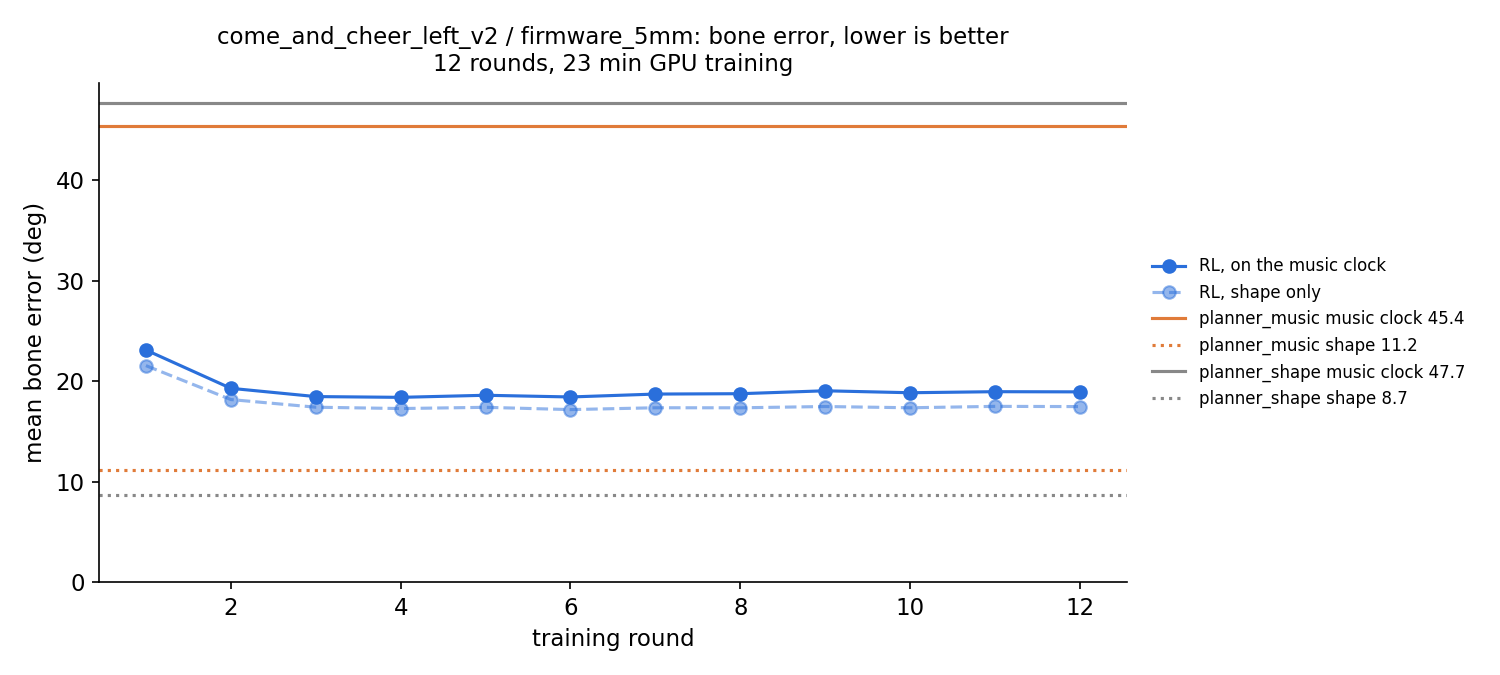
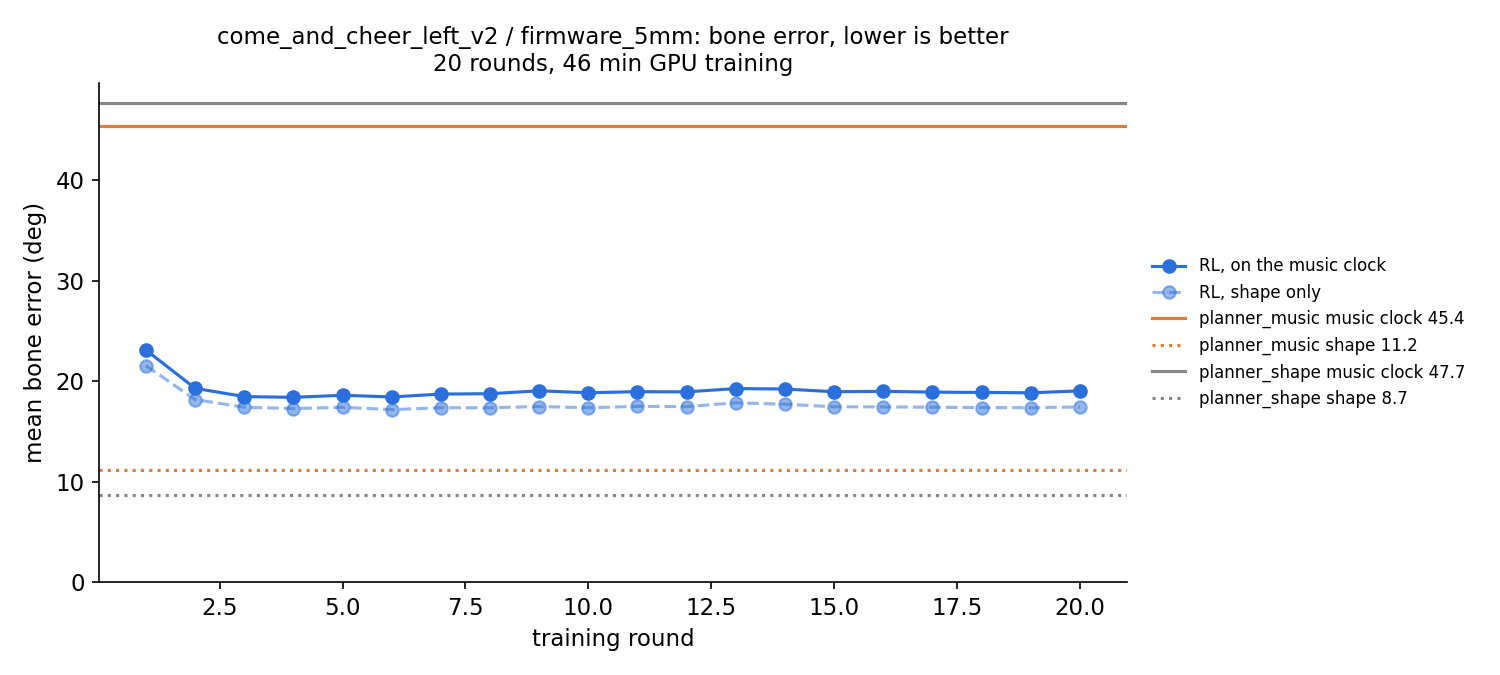
A50-1 RL vs planner full run: results, timings, curves for all 12 sets

diff --git a/docs/experiments/rl_compare_results.md b/docs/experiments/rl_compare_results.md
@@ -1,0 +1,223 @@
+# RL vs planner
+
+## come_and_cheer_center_v2 · Board cap 60 deg/s, 10 mm gap (เพลง 158 วินาที)
+
+| ตัววัด | planner_shape | planner_music | rl |
+|---|---|---|---|
+| ผิดจากท่าคน ตามเวลาเพลงจริง (°) | 51.3 | 50.1 | **19.0** |
+| ผิดจากรูปท่า ไม่นับเวลา (°) | **8.6** | 12.3 | 17.1 |
+| เอวผิด (°) | 53.5 | 53.0 | **4.9** |
+| ไหล่ยักผิด (°) | 4.2 | 4.8 | **2.0** |
+| ช้ากว่าเพลง มัธยฐาน (วินาที) | 128.8 | 107.1 | **0.1** |
+| ความยาวท่า ÷ ความยาวเพลง | 4.03 | 2.95 | **1.00** |
+| ความกระตุก jerk RMS (°/s³) | **676** | 734 | 3412 |
+| ความเร็วสูงสุดของข้อ (°/s) | 60 | 60 | 60 |
+| เวลาที่ใกล้ชนเกินระยะเผื่อ ตัวตรวจ Studio (วินาที) | **0.0** | **0.0** | **0.0** |
+| เฟรมใกล้ชน (ตัววัดประมาณ) | 13 | **0** | **0** |
+| ระยะห่างน้อยสุด ประมาณ (mm) | 8.9 | **24.0** | 17.7 |
+| เวลาที่ข้อชนลิมิต (%) | 87.5 | 83.8 | **48.0** |
+| เวลาคำนวณ/เทรน (วินาที) | 15 | **12** | 3578 |
+
+## come_and_cheer_center_v2 · Board cap 60 deg/s, 5 mm gap (เพลง 158 วินาที)
+
+| ตัววัด | planner_shape | planner_music | rl |
+|---|---|---|---|
+| ผิดจากท่าคน ตามเวลาเพลงจริง (°) | 51.3 | 50.1 | **18.9** |
+| ผิดจากรูปท่า ไม่นับเวลา (°) | **8.6** | 12.3 | 16.8 |
+| เอวผิด (°) | 53.5 | 53.0 | **5.3** |
+| ไหล่ยักผิด (°) | 4.2 | 4.8 | **2.0** |
+| ช้ากว่าเพลง มัธยฐาน (วินาที) | 128.8 | 107.1 | **0.0** |
+| ความยาวท่า ÷ ความยาวเพลง | 4.04 | 2.95 | **1.00** |
+| ความกระตุก jerk RMS (°/s³) | **673** | 734 | 3507 |
+| ความเร็วสูงสุดของข้อ (°/s) | 60 | 60 | 60 |
+| เวลาที่ใกล้ชนเกินระยะเผื่อ ตัวตรวจ Studio (วินาที) | **0.0** | **0.0** | **0.0** |
+| เฟรมใกล้ชน (ตัววัดประมาณ) | **0** | **0** | **0** |
+| ระยะห่างน้อยสุด ประมาณ (mm) | 8.9 | **24.0** | 16.1 |
+| เวลาที่ข้อชนลิมิต (%) | 87.3 | 83.8 | **38.5** |
+| เวลาคำนวณ/เทรน (วินาที) | 17 | **12** | 2779 |
+
+## come_and_cheer_center_v2 · Servo limits only (cap raised), 5 mm gap (เพลง 158 วินาที)
+
+| ตัววัด | planner_shape | planner_music | rl |
+|---|---|---|---|
+| ผิดจากท่าคน ตามเวลาเพลงจริง (°) | 44.0 | 42.2 | **12.8** |
+| ผิดจากรูปท่า ไม่นับเวลา (°) | **9.3** | 13.0 | 11.1 |
+| เอวผิด (°) | 16.3 | 8.4 | **3.4** |
+| ไหล่ยักผิด (°) | 3.8 | 3.5 | **1.8** |
+| ช้ากว่าเพลง มัธยฐาน (วินาที) | 6.4 | 3.1 | **0.0** |
+| ความยาวท่า ÷ ความยาวเพลง | 1.21 | 1.06 | **1.00** |
+| ความกระตุก jerk RMS (°/s³) | **15125** | 16835 | 17437 |
+| ความเร็วสูงสุดของข้อ (°/s) | 388 | 366 | 400 |
+| เวลาที่ใกล้ชนเกินระยะเผื่อ ตัวตรวจ Studio (วินาที) | 0.0 | **0.0** | **0.0** |
+| เฟรมใกล้ชน (ตัววัดประมาณ) | **0** | **0** | **0** |
+| ระยะห่างน้อยสุด ประมาณ (mm) | 6.0 | **24.2** | 13.0 |
+| เวลาที่ข้อชนลิมิต (%) | 87.1 | 83.6 | **45.2** |
+| เวลาคำนวณ/เทรน (วินาที) | 18 | **13** | 3321 |
+
+## come_and_cheer_left_v2 · Board cap 60 deg/s, 10 mm gap (เพลง 158 วินาที)
+
+| ตัววัด | planner_shape | planner_music | rl |
+|---|---|---|---|
+| ผิดจากท่าคน ตามเวลาเพลงจริง (°) | 47.7 | 45.4 | **18.8** |
+| ผิดจากรูปท่า ไม่นับเวลา (°) | **8.7** | 11.2 | 17.3 |
+| เอวผิด (°) | 12.9 | 11.6 | **2.1** |
+| ไหล่ยักผิด (°) | 4.5 | 4.4 | **1.7** |
+| ช้ากว่าเพลง มัธยฐาน (วินาที) | 137.8 | 97.3 | **0.0** |
+| ความยาวท่า ÷ ความยาวเพลง | 4.09 | 3.00 | **1.00** |
+| ความกระตุก jerk RMS (°/s³) | **686** | 748 | 3566 |
+| ความเร็วสูงสุดของข้อ (°/s) | 60 | 60 | 60 |
+| เวลาที่ใกล้ชนเกินระยะเผื่อ ตัวตรวจ Studio (วินาที) | 0.0 | **0.0** | **0.0** |
+| เฟรมใกล้ชน (ตัววัดประมาณ) | 166 | **0** | **0** |
+| ระยะห่างน้อยสุด ประมาณ (mm) | 8.3 | **18.6** | 15.8 |
+| เวลาที่ข้อชนลิมิต (%) | 92.0 | 93.9 | **29.2** |
+| เวลาคำนวณ/เทรน (วินาที) | 17 | **13** | 2871 |
+
+## come_and_cheer_left_v2 · Board cap 60 deg/s, 5 mm gap (เพลง 158 วินาที)
+
+| ตัววัด | planner_shape | planner_music | rl |
+|---|---|---|---|
+| ผิดจากท่าคน ตามเวลาเพลงจริง (°) | 47.7 | 45.4 | **19.0** |
+| ผิดจากรูปท่า ไม่นับเวลา (°) | **8.7** | 11.2 | 17.4 |
+| เอวผิด (°) | 12.9 | 11.6 | **2.3** |
+| ไหล่ยักผิด (°) | 4.5 | 4.4 | **1.5** |
+| ช้ากว่าเพลง มัธยฐาน (วินาที) | 137.8 | 97.3 | **0.0** |
+| ความยาวท่า ÷ ความยาวเพลง | 4.08 | 3.00 | **1.00** |
+| ความกระตุก jerk RMS (°/s³) | **689** | 748 | 3715 |
+| ความเร็วสูงสุดของข้อ (°/s) | 60 | 60 | 60 |
+| เวลาที่ใกล้ชนเกินระยะเผื่อ ตัวตรวจ Studio (วินาที) | 0.0 | **0.0** | **0.0** |
+| เฟรมใกล้ชน (ตัววัดประมาณ) | **0** | **0** | **0** |
+| ระยะห่างน้อยสุด ประมาณ (mm) | 8.3 | **18.6** | 18.2 |
+| เวลาที่ข้อชนลิมิต (%) | 92.2 | 93.9 | **25.2** |
+| เวลาคำนวณ/เทรน (วินาที) | 13 | **10** | 2744 |
+
+## come_and_cheer_left_v2 · Servo limits only (cap raised), 5 mm gap (เพลง 158 วินาที)
+
+| ตัววัด | planner_shape | planner_music | rl |
+|---|---|---|---|
+| ผิดจากท่าคน ตามเวลาเพลงจริง (°) | 42.3 | 40.3 | **11.8** |
+| ผิดจากรูปท่า ไม่นับเวลา (°) | **9.5** | 11.9 | 10.8 |
+| เอวผิด (°) | 3.1 | 1.9 | **1.7** |
+| ไหล่ยักผิด (°) | 3.9 | 3.6 | **1.6** |
+| ช้ากว่าเพลง มัธยฐาน (วินาที) | 6.8 | 2.9 | **0.0** |
+| ความยาวท่า ÷ ความยาวเพลง | 1.20 | 1.07 | **1.00** |
+| ความกระตุก jerk RMS (°/s³) | **16366** | 17166 | 17898 |
+| ความเร็วสูงสุดของข้อ (°/s) | 388 | 369 | 400 |
+| เวลาที่ใกล้ชนเกินระยะเผื่อ ตัวตรวจ Studio (วินาที) | 0.0 | **0.0** | 0.1 |
+| เฟรมใกล้ชน (ตัววัดประมาณ) | **0** | **0** | **0** |
+| ระยะห่างน้อยสุด ประมาณ (mm) | 8.3 | **18.6** | 5.3 |
+| เวลาที่ข้อชนลิมิต (%) | 88.8 | 89.3 | **41.0** |
+| เวลาคำนวณ/เทรน (วินาที) | 18 | **13** | 2915 |
+
+## witsawa_kriangkrai_center_v2 · Board cap 60 deg/s, 10 mm gap (เพลง 85 วินาที)
+
+| ตัววัด | planner_shape | planner_music | rl |
+|---|---|---|---|
+| ผิดจากท่าคน ตามเวลาเพลงจริง (°) | 51.3 | 51.1 | **19.5** |
+| ผิดจากรูปท่า ไม่นับเวลา (°) | **11.2** | 12.7 | 18.3 |
+| เอวผิด (°) | 16.1 | 13.3 | **2.4** |
+| ไหล่ยักผิด (°) | 5.2 | 5.9 | **1.7** |
+| ช้ากว่าเพลง มัธยฐาน (วินาที) | 121.3 | 91.7 | **0.0** |
+| ความยาวท่า ÷ ความยาวเพลง | 3.95 | 3.20 | **1.00** |
+| ความกระตุก jerk RMS (°/s³) | **658** | 754 | 3644 |
+| ความเร็วสูงสุดของข้อ (°/s) | 60 | 60 | 60 |
+| เวลาที่ใกล้ชนเกินระยะเผื่อ ตัวตรวจ Studio (วินาที) | **0.0** | **0.0** | **0.0** |
+| เฟรมใกล้ชน (ตัววัดประมาณ) | **0** | **0** | **0** |
+| ระยะห่างน้อยสุด ประมาณ (mm) | 13.0 | 21.1 | **22.5** |
+| เวลาที่ข้อชนลิมิต (%) | 91.0 | 90.1 | **27.8** |
+| เวลาคำนวณ/เทรน (วินาที) | 8 | **7** | 8763 |
+
+## witsawa_kriangkrai_center_v2 · Board cap 60 deg/s, 5 mm gap (เพลง 85 วินาที)
+
+| ตัววัด | planner_shape | planner_music | rl |
+|---|---|---|---|
+| ผิดจากท่าคน ตามเวลาเพลงจริง (°) | 51.3 | 51.1 | **18.9** |
+| ผิดจากรูปท่า ไม่นับเวลา (°) | **11.2** | 12.7 | 18.0 |
+| เอวผิด (°) | 16.1 | 13.3 | **2.4** |
+| ไหล่ยักผิด (°) | 5.2 | 5.9 | **1.6** |
+| ช้ากว่าเพลง มัธยฐาน (วินาที) | 121.3 | 91.7 | **0.0** |
+| ความยาวท่า ÷ ความยาวเพลง | 3.95 | 3.20 | **1.00** |
+| ความกระตุก jerk RMS (°/s³) | **658** | 754 | 3592 |
+| ความเร็วสูงสุดของข้อ (°/s) | 60 | 60 | 60 |
+| เวลาที่ใกล้ชนเกินระยะเผื่อ ตัวตรวจ Studio (วินาที) | **0.0** | **0.0** | **0.0** |
+| เฟรมใกล้ชน (ตัววัดประมาณ) | **0** | **0** | **0** |
+| ระยะห่างน้อยสุด ประมาณ (mm) | 13.0 | **21.1** | 11.8 |
+| เวลาที่ข้อชนลิมิต (%) | 91.0 | 90.1 | **32.1** |
+| เวลาคำนวณ/เทรน (วินาที) | 8 | **6** | 6932 |
+
+## witsawa_kriangkrai_center_v2 · Servo limits only (cap raised), 5 mm gap (เพลง 85 วินาที)
+
+| ตัววัด | planner_shape | planner_music | rl |
+|---|---|---|---|
+| ผิดจากท่าคน ตามเวลาเพลงจริง (°) | 48.0 | 46.7 | **13.2** |
+| ผิดจากรูปท่า ไม่นับเวลา (°) | **11.7** | 13.4 | 12.8 |
+| เอวผิด (°) | 2.8 | 2.8 | **1.5** |
+| ไหล่ยักผิด (°) | 5.0 | 4.7 | **2.0** |
+| ช้ากว่าเพลง มัธยฐาน (วินาที) | 7.7 | 3.7 | **-0.0** |
+| ความยาวท่า ÷ ความยาวเพลง | 1.18 | 1.08 | **1.00** |
+| ความกระตุก jerk RMS (°/s³) | **13253** | 16320 | 18411 |
+| ความเร็วสูงสุดของข้อ (°/s) | 388 | 364 | 399 |
+| เวลาที่ใกล้ชนเกินระยะเผื่อ ตัวตรวจ Studio (วินาที) | **0.0** | **0.0** | **0.0** |
+| เฟรมใกล้ชน (ตัววัดประมาณ) | **0** | **0** | **0** |
+| ระยะห่างน้อยสุด ประมาณ (mm) | 13.0 | **21.6** | 11.6 |
+| เวลาที่ข้อชนลิมิต (%) | 84.2 | 82.9 | **30.8** |
+| เวลาคำนวณ/เทรน (วินาที) | 8 | **7** | 5521 |
+
+## witsawa_kriangkrai_left_v2 · Board cap 60 deg/s, 10 mm gap (เพลง 85 วินาที)
+
+| ตัววัด | planner_shape | planner_music | rl |
+|---|---|---|---|
+| ผิดจากท่าคน ตามเวลาเพลงจริง (°) | 50.7 | 47.4 | **23.3** |
+| ผิดจากรูปท่า ไม่นับเวลา (°) | **10.7** | 12.4 | 20.4 |
+| เอวผิด (°) | 15.7 | 11.9 | **1.7** |
+| ไหล่ยักผิด (°) | 4.7 | 5.2 | **1.6** |
+| ช้ากว่าเพลง มัธยฐาน (วินาที) | 114.8 | 91.4 | **-0.0** |
+| ความยาวท่า ÷ ความยาวเพลง | 3.98 | 3.30 | **1.00** |
+| ความกระตุก jerk RMS (°/s³) | **667** | 688 | 3814 |
+| ความเร็วสูงสุดของข้อ (°/s) | 60 | 60 | 60 |
+| เวลาที่ใกล้ชนเกินระยะเผื่อ ตัวตรวจ Studio (วินาที) | **0.0** | **0.0** | **0.0** |
+| เฟรมใกล้ชน (ตัววัดประมาณ) | **0** | **0** | **0** |
+| ระยะห่างน้อยสุด ประมาณ (mm) | 10.4 | 20.3 | **30.6** |
+| เวลาที่ข้อชนลิมิต (%) | 81.7 | 81.4 | **24.8** |
+| เวลาคำนวณ/เทรน (วินาที) | 11 | **8** | 5621 |
+
+## witsawa_kriangkrai_left_v2 · Board cap 60 deg/s, 5 mm gap (เพลง 85 วินาที)
+
+| ตัววัด | planner_shape | planner_music | rl |
+|---|---|---|---|
+| ผิดจากท่าคน ตามเวลาเพลงจริง (°) | 50.7 | 47.4 | **20.4** |
+| ผิดจากรูปท่า ไม่นับเวลา (°) | **10.7** | 12.4 | 18.5 |
+| เอวผิด (°) | 15.7 | 11.9 | **2.0** |
+| ไหล่ยักผิด (°) | 4.7 | 5.2 | **1.8** |
+| ช้ากว่าเพลง มัธยฐาน (วินาที) | 114.8 | 91.4 | **0.1** |
+| ความยาวท่า ÷ ความยาวเพลง | 3.98 | 3.30 | **1.00** |
+| ความกระตุก jerk RMS (°/s³) | **667** | 688 | 3946 |
+| ความเร็วสูงสุดของข้อ (°/s) | 60 | 60 | 60 |
+| เวลาที่ใกล้ชนเกินระยะเผื่อ ตัวตรวจ Studio (วินาที) | **0.0** | **0.0** | **0.0** |
+| เฟรมใกล้ชน (ตัววัดประมาณ) | **0** | **0** | **0** |
+| ระยะห่างน้อยสุด ประมาณ (mm) | 10.4 | 20.3 | **25.4** |
+| เวลาที่ข้อชนลิมิต (%) | 81.7 | 81.4 | **31.8** |
+| เวลาคำนวณ/เทรน (วินาที) | 8 | **7** | 3321 |
+
+## witsawa_kriangkrai_left_v2 · Servo limits only (cap raised), 5 mm gap (เพลง 85 วินาที)
+
+| ตัววัด | planner_shape | planner_music | rl |
+|---|---|---|---|
+| ผิดจากท่าคน ตามเวลาเพลงจริง (°) | 45.6 | 44.5 | **13.0** |
+| ผิดจากรูปท่า ไม่นับเวลา (°) | **11.4** | 13.1 | 12.6 |
+| เอวผิด (°) | 6.1 | 5.6 | **1.6** |
+| ไหล่ยักผิด (°) | 4.9 | 4.6 | **1.7** |
+| ช้ากว่าเพลง มัธยฐาน (วินาที) | 6.7 | 3.6 | **0.1** |
+| ความยาวท่า ÷ ความยาวเพลง | 1.18 | 1.09 | **1.00** |
+| ความกระตุก jerk RMS (°/s³) | **15559** | 17173 | 19350 |
+| ความเร็วสูงสุดของข้อ (°/s) | 388 | 364 | 397 |
+| เวลาที่ใกล้ชนเกินระยะเผื่อ ตัวตรวจ Studio (วินาที) | **0.0** | **0.0** | **0.0** |
+| เฟรมใกล้ชน (ตัววัดประมาณ) | **0** | **0** | **0** |
+| ระยะห่างน้อยสุด ประมาณ (mm) | 11.0 | **20.8** | 14.3 |
+| เวลาที่ข้อชนลิมิต (%) | 74.2 | 72.0 | **44.7** |
+| เวลาคำนวณ/เทรน (วินาที) | **9** | 9 | 5389 |
+
+## Run record
+
+- commit e4b2069573774246dffa6f1f380ed60321174c17 (dirty: False), 2026-10-28T21:05:02Z
+- NVIDIA GeForce RTX 5070 Ti Laptop GPU · torch 2.11.0+cu128 · CUDA 12.8 · Windows-11-10.0.26300-SP0
+- every run's full record: .local/rl_compare/experiments.jsonl on the PC

diff --git a/docs/experiments/experiment-records.md b/docs/experiments/experiment-records.md
@@ -79,3 +79,31 @@ tested, the waist speed was NOT. Re-run without the offset below.
   Estimate for the full config (4 dances x 3 scenarios x 20 rounds): ~8 h.
 - Saved per round: .local/rl_compare/come_and_cheer_left_v2/firmware_5mm/round_NN/{policy.pt,motion.npz,round.json}.
   run.py only skips a run whose round_20/round.json exists, so this run restarts from round 1 (no resume yet).
+
+### RL compare full run (PC, 2026-10-28 19:47 to 2026-10-29 12:49 Bangkok)
+Same GPU, cuda, torch 2.11.0+cu128; 4 dances x 3 scenarios x 20 rounds x 60 updates. Detached driver
+`.local/rl_compare/run_rest.ps1`; come_and_cheer_left_v2/firmware_5mm ran last and RESUMED from round 12
+(PR #102 resume), so its set wall is the second leg only. Full tables per set (all metrics, both planner
+variants): docs/experiments/rl_compare_results.md. Curves: docs/experiments/figures/rl_curve_*.png.
+
+TIMING CAVEAT: the GPU/CPU was shared all night (nong_sim record 19:57-21:30, Codex MuJoCo renders
+22:30-23:55, YOLO training 01:50-11:35), so s/round ranges 137-438 s; the clean rate on this GPU is
+~115 s/round (2026-10-28 19:07 run). Use RL train seconds only as an upper bound.
+
+| dance | scenario | set wall s | RL train s | s/round | RL music deg | RL shape deg | planner_music music deg | planner_music shape deg | planner_music plan s / board s |
+|---|---|---|---|---|---|---|---|---|---|
+| come_and_cheer_center_v2 | firmware_10mm | 4613 | 3578 | 179 | 19.0 | 17.1 | 50.1 | 12.3 | 11.5 / 467 |
+| come_and_cheer_center_v2 | firmware_5mm | 3354 | 2779 | 139 | 18.9 | 16.8 | 50.1 | 12.3 | 11.7 / 467 |
+| come_and_cheer_center_v2 | servo_5mm | 4172 | 3321 | 166 | 12.8 | 11.1 | 42.2 | 13.0 | 12.9 / 167 |
+| come_and_cheer_left_v2 | firmware_10mm | 3448 | 2871 | 144 | 18.8 | 17.3 | 45.4 | 11.2 | 12.8 / 475 |
+| come_and_cheer_left_v2 | firmware_5mm | 1696+1843 (2 legs) | 2744 | 137 | 19.0 | 17.4 | 45.4 | 11.2 | 10.2 / 475 |
+| come_and_cheer_left_v2 | servo_5mm | 3477 | 2915 | 146 | 11.8 | 10.8 | 40.3 | 11.9 | 12.7 / 169 |
+| witsawa_kriangkrai_center_v2 | firmware_10mm | 9703 | 8763 | 438 | 19.5 | 18.3 | 51.1 | 12.7 | 6.8 / 272 |
+| witsawa_kriangkrai_center_v2 | firmware_5mm | 7636 | 6932 | 347 | 18.9 | 18.0 | 51.1 | 12.7 | 6.5 / 272 |
+| witsawa_kriangkrai_center_v2 | servo_5mm | 6128 | 5521 | 276 | 13.2 | 12.8 | 46.7 | 13.4 | 7.3 / 92 |
+| witsawa_kriangkrai_left_v2 | firmware_10mm | 6421 | 5621 | 281 | 23.3 | 20.4 | 47.4 | 12.4 | 8.4 / 280 |
+| witsawa_kriangkrai_left_v2 | firmware_5mm | 3883 | 3321 | 166 | 20.4 | 18.5 | 47.4 | 12.4 | 7.3 / 280 |
+| witsawa_kriangkrai_left_v2 | servo_5mm | 6139 | 5389 | 269 | 13.0 | 12.6 | 44.5 | 13.1 | 9.0 / 92 |
+
+"music deg" = bone error on the song's own clock; "shape deg" = bone error ignoring timing.
+Songs: come_and_cheer 158 s; board s = how long the planner's show runs on the board.

diff --git a/handoff/tasks/pc-rl-visuals-1028.md b/handoff/tasks/pc-rl-visuals-1028.md
@@ -17,7 +17,7 @@ RL full run in the background (detached PowerShell, survives this session):
 `.local/rl_compare/run_rest.ps1`, log `.local/rl_compare/rl_rest.log` (UTF-16; read with
 `Get-Content -Encoding Unicode`). Order: the 11 unfinished sets, then
 come_and_cheer_left_v2/firmware_5mm last (restarts from round 1: no resume yet), then `--report`.
-Ends with the line `ALL DONE`. Started 19:47 Bangkok; sets take 56-77 min (CPU/GPU shared), 6/11 done at 02:50.
+RL run FINISHED 2026-10-29 12:49 (ALL DONE); results in experiment-records.md + rl_compare_results.md.
 YOLO pose (A52-3 step 3) on the same GPU: `.local/robot_pose/train/train.py n 16` in the venv
 `.local/yolo_venv` (system CUDA torch 2.11 + torchvision 0.26 cu128 + ultralytics 8.4.191),
 train = 20k renders, val = 36 LAB frames (`dataset_labval.yaml`), ~3 min/epoch, log train_n.log,
